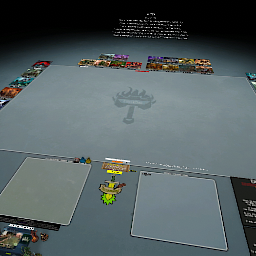
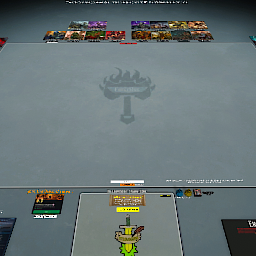
Update ForceOrg and LTC saves to 6-29-2026 versions and update README hashes

diff --git a/README.md b/README.md
@@ -34,9 +34,9 @@ To ensure that these backup files are safe and have not been modified, we provid
 | :--- | :--- | :--- |
[7 lines of base64/hex data omitted]
 
 > [!TIP]
 > If a file has not been analyzed by VirusTotal yet when you click the link, you can upload the file directly to [VirusTotal](https://www.virustotal.com/) to trigger a fresh scan. Since these are plain text JSON files and open-source installer scripts, they will scan clean.